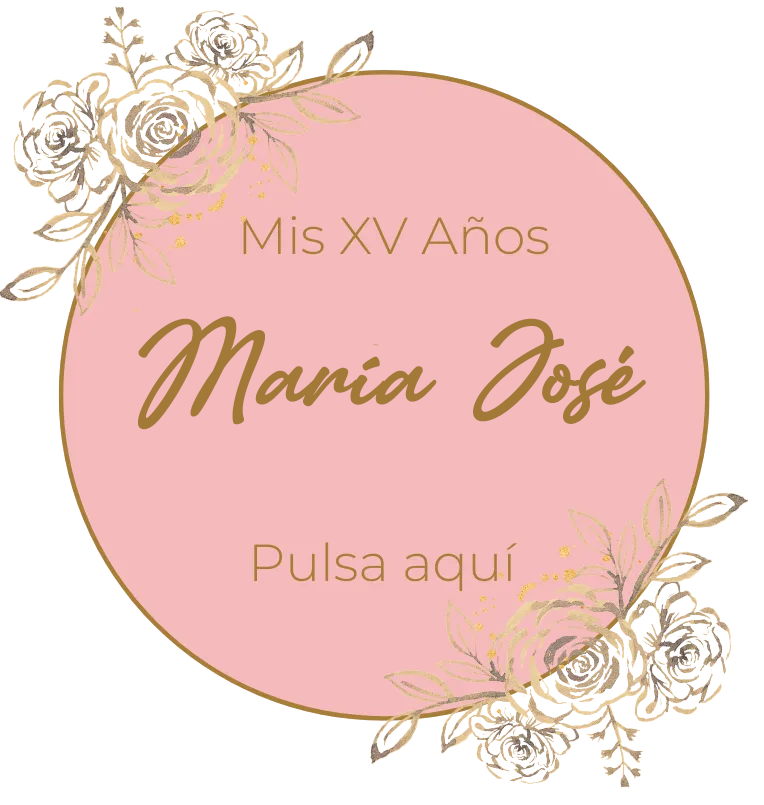
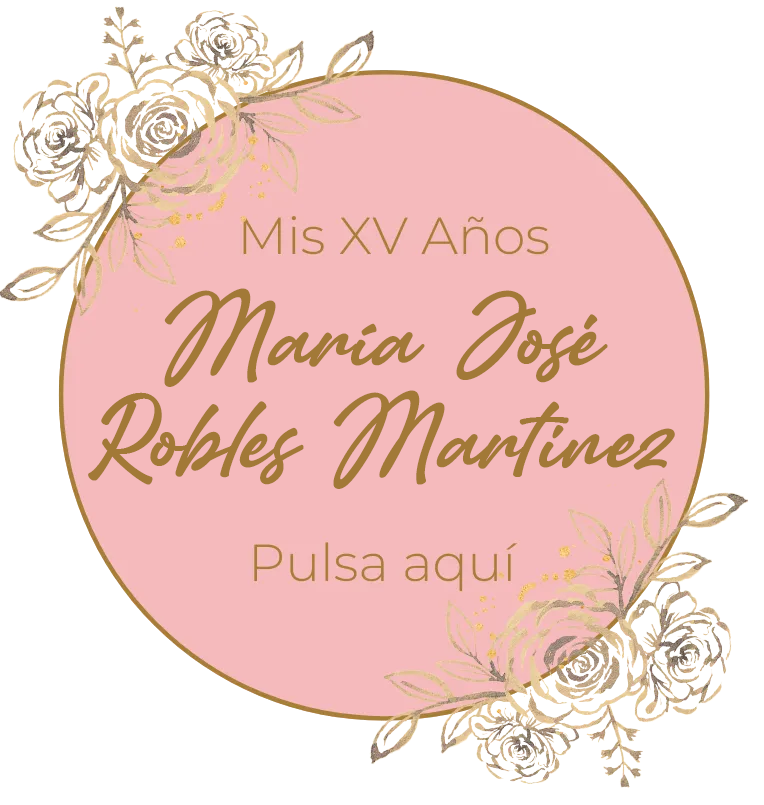
s
s

Changed region(s): [[0.1204, 0.3416, 0.9031, 0.6211]]

diff --git a/index.html b/index.html
@@ -157,7 +157,7 @@
                                     <div class="elementor-widget-container font_brid"> Mis XV Años</div>
                                  </div>
                                  <div class="elementor-element elementor-element-9a45b52 animated-slow color-normal elementor-hidden-desktop elementor-widget elementor-widget-text-editor animated fadeIn" data-id="9a45b52" data-element_type="widget" data-settings="{&quot;_animation&quot;:&quot;fadeIn&quot;,&quot;_animation_delay&quot;:500}" data-widget_type="text-editor.default">
-                                    <div class="elementor-widget-container font_brid"> María</div>
+                                    <div class="elementor-widget-container font_brid"> María José Robles Martinez</div>
                                  </div>
                                  <div class="elementor-element elementor-element-47d406b normal-portad elementor-widget elementor-widget-text-editor animated fadeIn" data-id="47d406b" data-element_type="widget" data-settings="{&quot;_animation_mobile&quot;:&quot;fadeIn&quot;}" data-widget_type="text-editor.default">
                                     <div class="elementor-widget-container font_chewy">  22 de diceimbre del 2025</div>
@@ -217,7 +217,7 @@ src="1-1.png" class=" attachment-full size-full wp-image-112438" alt="" >
                                     <div class="elementor-widget-container font_quattrocento"> Dicen que la vida está hecha de capítulos, y este es uno de los más importantes: mis XV quiero que seas parte de estas páginas que nunca olvidaré.</div>
                                  </div>
                                  <div class="elementor-element elementor-element-986b66b elementor-widget elementor-widget-text-editor animated fadeInUp" data-id="986b66b" data-element_type="widget" data-settings="{&quot;_animation_mobile&quot;:&quot;fadeInUp&quot;}" data-widget_type="text-editor.default">
-                                    <div class="elementor-widget-container font_brid"> – María</div>
+                                    <br><br><div class="elementor-widget-container font_brid"> – María José Robles Martinez</div>
                                  </div>
                                  <div class="elementor-element elementor-element-d2dc89e elementor-absolute elementor-widget elementor-widget-image" data-id="d2dc89e" data-element_type="widget" data-settings="{&quot;_position&quot;:&quot;absolute&quot;}" data-widget_type="image.default">
 <div class="elementor-widget-container">                   
@@ -290,7 +290,7 @@ src="1-1.png" class=" attachment-full size-full wp-image-112438" alt="" >
                                     <div class="elementor-widget-container font_quattrocento"> Con la bendición de Dios y el cariño de mis padres:</div>
                                  </div>
                                  <div class="elementor-element elementor-element-cb68c69 elementor-widget elementor-widget-text-editor" data-id="cb68c69" data-element_type="widget" data-widget_type="text-editor.default">
-                                    <div class="elementor-widget-container font_brid"> Jonás Robles Juárez <br>y<br> Idalia Martinez Salinas</div>
+                                    <div class="elementor-widget-container font_brid"> Jonás Robles Juárez <br>e<br> Idalia Martinez Salinas</div>
                                  </div>
                                  <div class="elementor-element elementor-element-244df4a elementor-widget elementor-widget-spacer" data-id="244df4a" data-element_type="widget" data-widget_type="spacer.default">
                                     <div class="elementor-widget-container">
@@ -466,9 +466,8 @@ src="1-1.png" class=" attachment-full size-full wp-image-112438" alt="" >
                                  <div class="elementor-element elementor-element-b798b8d normal-portada elementor-widget elementor-widget-text-editor animated fadeIn" data-id="b798b8d" data-element_type="widget" data-settings="{&quot;_animation_mobile&quot;:&quot;fadeIn&quot;}" data-widget_type="text-editor.default">
                                     <div class="elementor-widget-container font_quattrocento"> Formal para la ocasión.</div>
                                  </div>
-                                 <div class="elementor-element elementor-element-a53b779 normal-portada elementor-widget elementor-widget-text-editor animated fadeIn" data-id="a53b779" data-element_type="widget" data-settings="{&quot;_animation_mobile&quot;:&quot;fadeIn&quot;}" data-widget_type="text-editor.default">
-                                    <div class="elementor-widget-container font_quattrocento"> <strong>No Mezclilla.</strong></div>
-                                 </div>
+                               
+                                 
                 
                                  
                                  <div class="elementor-element elementor-element-2eb5b32 normal-portada elementor-widget elementor-widget-text-editor animated fadeIn" data-id="2eb5b32" data-element_type="widget" data-settings="{&quot;_animation_mobile&quot;:&quot;fadeIn&quot;}" data-widget_type="text-editor.default">
